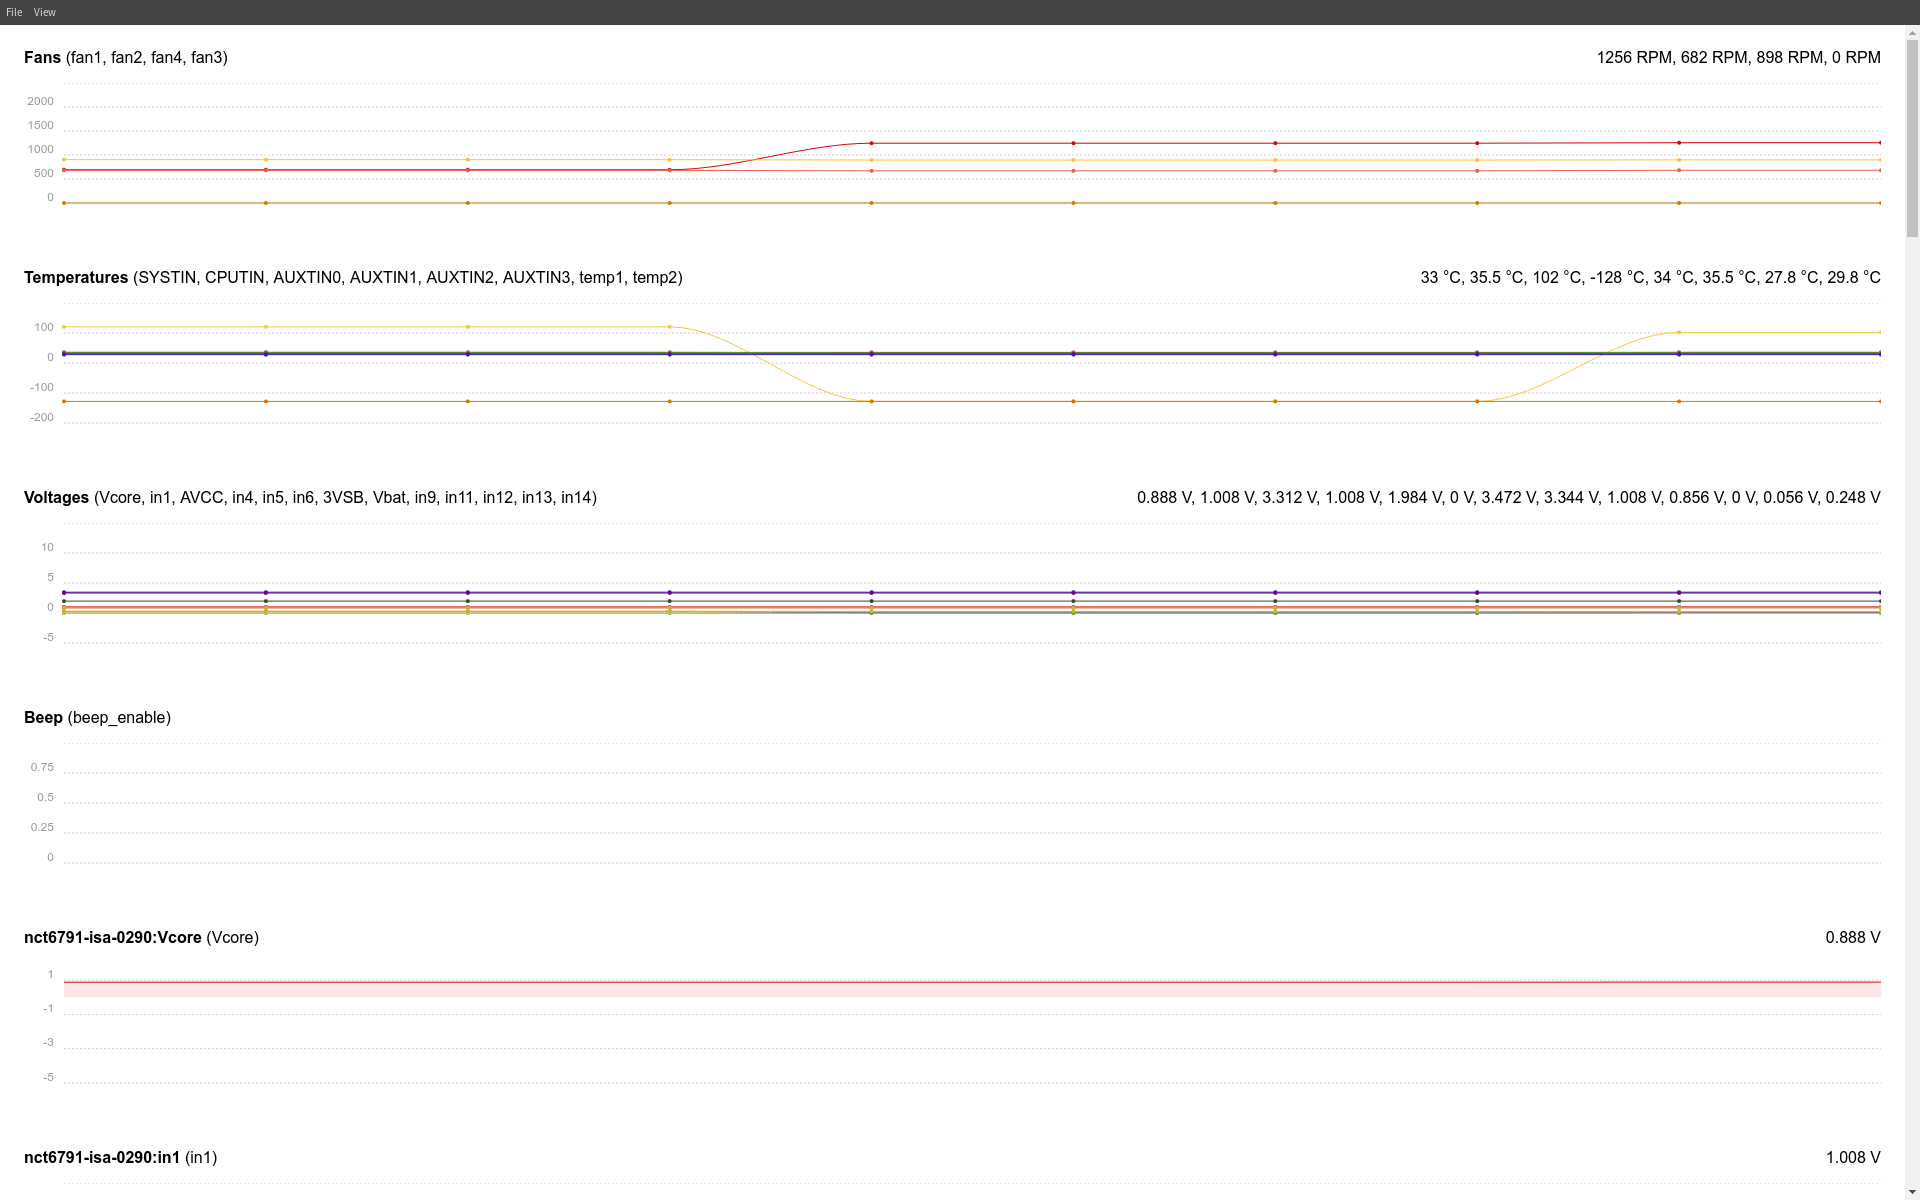
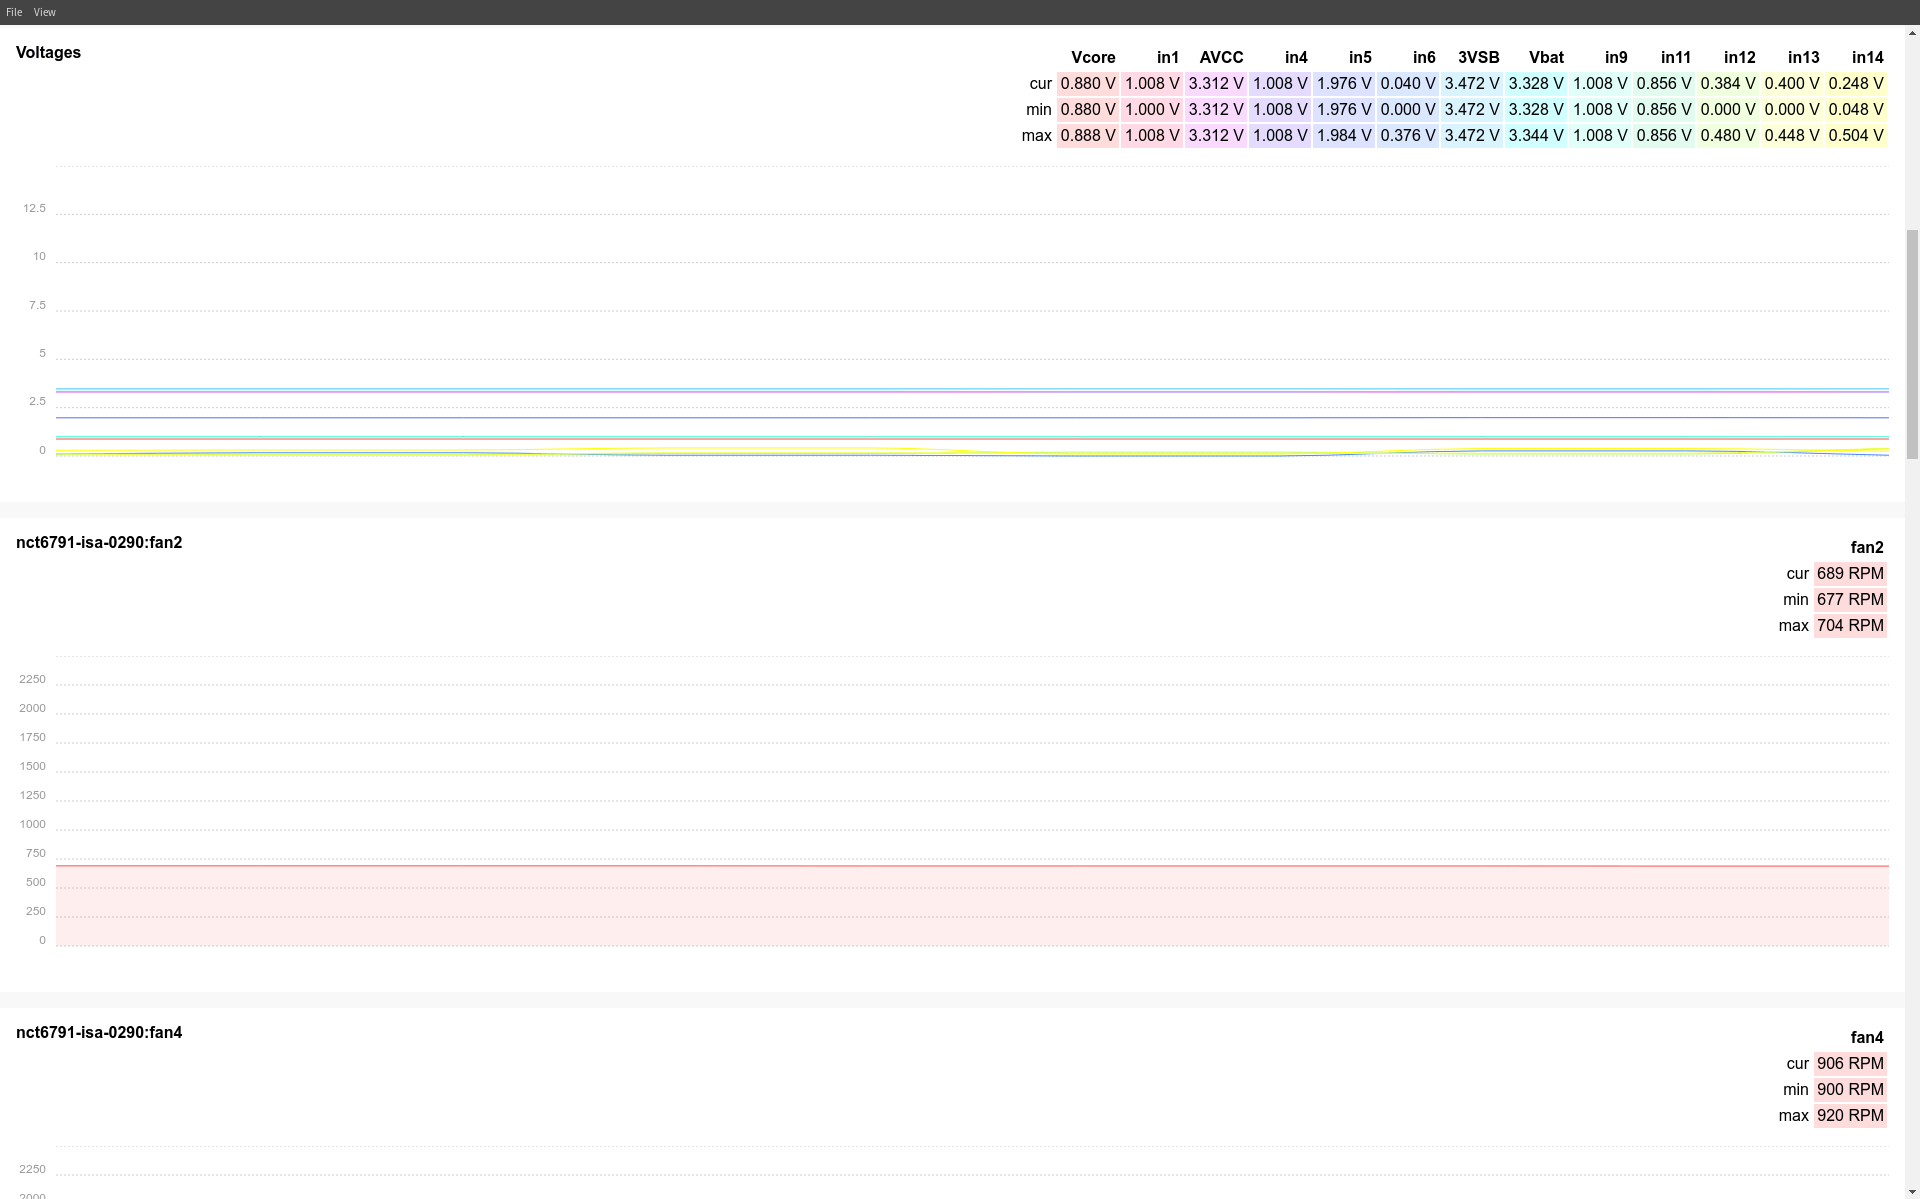
Improved color support

diff --git a/src/app.scss b/src/app.scss
@@ -1,19 +1,40 @@
+//@import 'colors';
+$alphabet: (a, b, c, d, e, f, g, h, i, j, k, l, m, n, o, p, q, r, s, t, u, v, w, x, y, z);
+$colors: (#ff5252, #ff4081, #e040fb, #7c4dff, #536dfe, #448aff, #40c4ff, #18ffff, #64ffda, #69f0ae, #b2ff59, #eeff41, #ffff00, #ffd740, #ffab40, #ff6e40, #5d4037, #616161, #455a64);
+
 body {
   font: menu;
   margin : 0;
   padding : 0;
 }
 
-.sensor-graph .ct-line {
-  stroke-width: 1px;
-}
+.sensor-graph {
+  @for $i from 1 through length($colors) {
+    $c: nth($colors, $i);
+    $k: nth($alphabet, $i);
 
-.sensor-graph .ct-point {
-  stroke-width: 4px;
+    .ct-series-#{$k} .ct-line {
+      stroke: $c;
+    }
+    .ct-series-#{$k} .ct-area {
+      fill: $c;
+    }
+    .ct-series-#{$k} .ct-point {
+      stroke: $c;
+    }
+  }
+
+  .ct-line {
+    stroke-width: 1px;
+  }
+
+  .ct-point {
+    stroke-width: 4px;
+  }
 }
 
 .dashboard {
-  background-color : #fff;
+  background-color : #f8f8f8;
 
   & > ul {
     list-style-type : none;
@@ -24,9 +45,10 @@ body {
       margin : 0;
       padding : 1em;
       min-height : 5em;
+      background-color : #fff;
 
-      &:nth-child(2n+1) {
-        background-color : #f7f7f7;
+      &:not(:last-child) {
+        margin-bottom : 1em;
       }
 
       & > div {
@@ -69,8 +91,17 @@ body {
               float : right;
               font-size : inherit;
 
-              td {
+              td, th {
                 padding : .2em;
+              }
+
+              tbody {
+                @for $i from 1 through length($colors) {
+                  $c: nth($colors, $i);
+                  td:nth-child(#{$i + 1}) {
+                    background-color: rgba($c, 0.2);
+                  }
+                }
               }
             }
           }

diff --git a/src/preferences.js b/src/preferences.js
@@ -107,8 +107,8 @@ const DEFAULT_PREFERENCES = {
   temperature: 'celcius',
   min: {
     temp: 0.0,
-    fan: 2500,
-    in: -5.0,
+    fan: 0,
+    in: 0.0,
     intrusion: 0,
     beep: 0
   },
@@ -281,6 +281,7 @@ export default {
   collection: (function() {
     const result = {};
 
+    // Bind saving to each available method
     Object.keys(collectionMethods).forEach((m) => {
       result[m] = function() {
         const ret = collectionMethods[m].apply(null, arguments);
@@ -292,7 +293,6 @@ export default {
     });
 
     return result;
-
   })(),
 
   /**
@@ -313,7 +313,6 @@ export default {
    * @return {Promise}
    */
   reset() {
-
     ElectronSettings.deleteAll();
 
     initSettings();

diff --git a/src/sensorcollection.js b/src/sensorcollection.js
@@ -130,8 +130,8 @@ export default class SensorCollection {
       low: min,
       high: max,
       chartPadding: 0,
-      showPoint: this.count() > 1,
-      showArea: this.count() < 2,
+      showPoint: false,
+      showArea: this.count() <= 1,
       fullWidth: true,
       axisX: {
         showLabel: false,

diff --git a/src/sensor.js b/src/sensor.js
@@ -40,6 +40,9 @@ const UNITS = {
 
 /**
  * Gets a value in its correct representation
+ * @param {String} type Sensor type
+ * @param {Number} value Sensor value
+ * @return {String|Number}
  */
 function getValue(type, value) {
   if ( type === 'in' ) {
